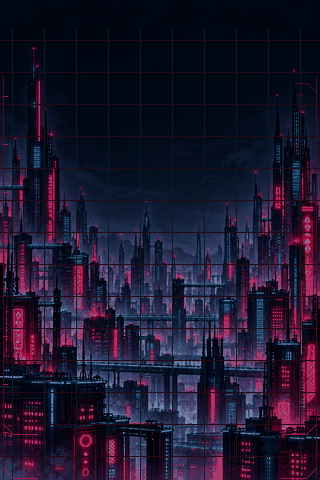
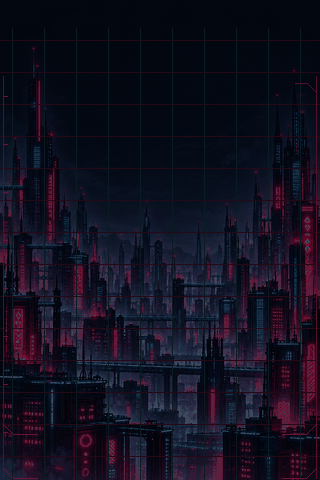
Darken Background

Changed region(s): [[0.0, 0.125, 1.0, 1.0], [0.8125, 0.9375, 0.8438, 1.0], [0.0, 0.7812, 0.0625, 0.8125]]

diff --git a/tools/graphics/prepare_hud_city.py b/tools/graphics/prepare_hud_city.py
@@ -38,8 +38,8 @@ def main() -> None:
             raise ValueError("HUD city source must have a 2:3 portrait aspect ratio")
         resized = image.convert("RGB").resize((320, 480), Image.Resampling.LANCZOS)
     background = Image.new("RGB", resized.size, (5, 8, 15))
-    for filename, visibility in (("neon_sky_city.png", 0.85),
-                                  ("neon_sky_city_lists.png", 0.38)):
+    for filename, visibility in (("neon_sky_city.png", 0.45),
+                                  ("neon_sky_city_lists.png", 0.20)):
         # All tinting/dimming is baked into RGB pixels. LVGL copies these
         # opaque RGB565 images without image or per-row alpha blending.
         prepared = Image.blend(background, resized, visibility)
